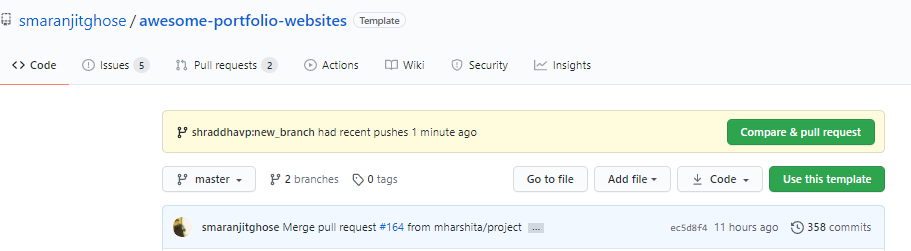
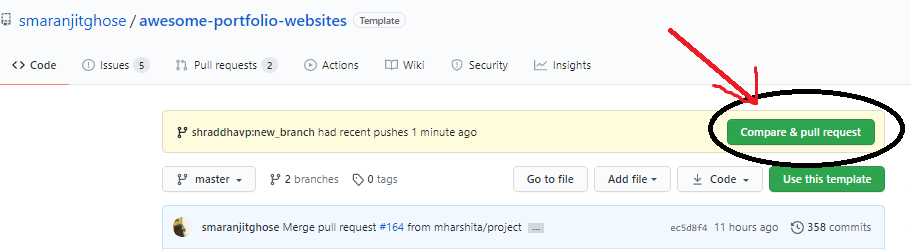
Updated Contribution Guidelines

Changed region(s): [[0.7684, 0.3068, 1.0, 0.6693], [0.7069, 0.1116, 0.7684, 0.2231], [0.7684, 0.2231, 0.7991, 0.3068]]

diff --git a/CONTRIBUTING.md b/CONTRIBUTING.md
@@ -1,4 +1,5 @@
-<h1 align="center"><b>Guidelines for Contribution</b></h1> 
+# Contribution Guidelines [![contributions welcome](https://img.shields.io/badge/contributions-welcome-brightgreen.svg?style=flat)](https://github.com/smaranjitghose/awesome-portfolio-websites/issues) 🤝🏽🍀:
+
 
 <p align="center"><img src="./readme_assets/Contribute.png" width=600></p>
 
@@ -10,20 +11,34 @@ We want to make contributing to this project as easy and as transparent as possi
 
 - Proposing new features :bulb:
 
-If you wish to contribute to this project, please raise an issue and wait for the project maintainers to approve it or give feedback
+If you wish to contribute to this project, please raise an issue and wait for the project maintainers to approve it or give feedback before making a change.
 
-<h2 align="center"><b>How to make a Pull Request? :point_down:</b></h2>
+This documentation contains a set of guidelines to help you during the contribution process. We are happy to welcome all the contributions from anyone willing to improve/add new scripts to this project. 
 
-<p align="center"><img src="https://camo.githubusercontent.com/2c885464740a6c05b127ecb7c3ebb9e5cc67ba1c/68747470733a2f2f6d656469612e67697068792e636f6d2f6d656469612f4a717a616442746f6e4a56723075384c55672f67697068792e676966" width=500></p>
+## Code of Conduct
+
+Make sure to read it here: [CODE_OF_CONDUCT.md](CODE_OF_CONDUCT.md)
+
+
+## Preliminaries
+
+- Download and install the latest stable version of [Git](https://git-scm.com/downloads) 📥 for version control
+- Create a [Github](https://github.com/join) Account 📇
+- Download and install latest stable version of [VS Code](https://code.visualstudio.com/download)
+
+##   A. Setting up the Project
 
 **1.**  Fork [this](https://github.com/smaranjitghose/awesome-portfolio-websites) repository.
+
+<p align="center"><img src="readme_assets\Fork_Repo.gif" width="500" height="200" /></p>
+
 
 **2.**  Clone your forked copy of the project.
 
 ```
 git clone --depth 1 https://github.com/<your_user_name>/awesome-portfolio-websites.git
 ```
-<img src="./readme_assets/CloneRepo.png" width="500">
+<p align="center"><img width=35% src="readme_assets\clone_repo.gif" width="500" height="200" /></p>
 
 **3.** Navigate to the project directory :file_folder: .
 
@@ -49,47 +64,129 @@ git remote -v
 git pull upstream master
 ```
 
-**7.** Create a new branch.
+- Comment on any existing [issue(s)](https://github.com/smaranjitghose/awesome-portfolio-websites/issues) raised by **project maintainers**. Otherwise raise a [new issue](https://github.com/smaranjitghose/awesome-portfolio-websites/issues/new).
+
+> ### Guidelines for raising a new issue:
+>
+> - Each issue should have an appropriate and short title like "Bug in Experience Page"
+>
+> - Whenever a participant raises an issue, by default it would be assigned to that participant due to obvious reasons. 
+>
+> - Be specific about your intended changes/suggestions
+>
+> - Refrain from using phrases like "Hi, I am ..", "Please assign me this issue", "Thank You..", etc. We are only interested in technical parts
+>
+> - Attach a screenshot/clip if applicable
+>
+> - Please be patient enough. The project maintainers/mentors would review it as per their schedule. Refrain from putting up comments like "Please check this" ,"Please review this PR" etc.
+>
+>-  An issue would be assigned to a participant for a minimum of 1 day and a maximum of 3 days. If the tenure of a particular participant is not over please do not spam the issue thread by writing, " I am interested" etc. You are welcome to do so if the participant has not met the requirements with around 12 hours remaining for their deadline.
+>
+> - Feel free to suggest your opinions on the already raised issues.
+>
+> - All participants are welcomed to suggest new features/bug fixes/improvements and raise new issues for those. However, the assignment would be done once approved by either of the project maintainers or the mentors.
+>
+> - Do not blindly comment on issues raised by other participant(s). Unless a minimum of 48 hours has passed since their assignment, the issue would not be re-assigned(excluding certain cases). The issue raised by a participant will always to be assigned to him/her by default. Do not spam "Interested", "Please assign me" in others issues.
+>
+> - Always keep a note of the deadline.
+
+##  B. Contributing to the Project
+
+- Once the project maintainer(s)/mentor(s) have reviewed the issue/assigned you the issue. Start working on the changes.
+
+**1.** Create a new branch (DO NOT name it MAIN or MASTER or anything random).
 
 ```
 git checkout -b <your_branch_name>
 ```
 
-**8.** Perfom your desired changes to the code base.
+**2.** Perfom your desired changes to the code base.
+- Make sure that you do not change any code unrelated to the task that you have been assigned
+
+- Ensure that your changes apply to all screensizes
+
+- Comment any new code addition(s)
+
+- Do not mess up the directory structure
+
+- Preview your changes and test them properly before proceding ahead
 
 <p align="center"><img width=35% src="https://media2.giphy.com/media/L1R1tvI9svkIWwpVYr/giphy.gif?cid=ecf05e47pzi2rpig0vc8pjusra8hiai1b91zgiywvbubu9vu&rid=giphy.gif"></p>
 
-**9.** Track your changes:heavy_check_mark: .
+- Make a small clip or take screenshots before and after making changes.
+
+
+**3.** Track your changes:heavy_check_mark: 
 
 ```
 git add . 
 ```
 
-**10.** Commit your changes .
+**4.** Commit your changes .
 
 ```
-git commit -m "Relevant message"
+git commit -m "Relevant message"  (usually title of the pull request)
 ```
+- **Make sure to condense your changes into a single commit**.
 
-**11.** Push the committed changes in your feature branch to your remote repo.
+**5.** Push the committed changes in your feature branch to your remote repo.
 
 ```
 git push -u origin <your_branch_name>
 ```
 
-**12.** To create a pull request, click on `compare and pull requests`. Please ensure you compare your feature branch to the desired branch of the repo you are suppose to make a PR to.
+**6.** To create a pull request, click on `compare and pull requests`. Please ensure you compare your feature branch to the desired branch of the repo you are suppose to make a PR to.
 
 <img src="./readme_assets/ComparePR.png" width=600>
 
-**13.** Then add an appropriate title and description to your pull request that explains your changes and efforts done.
+**7.** Then add an appropriate title and description to your pull request that explains your changes and efforts done.
 
 
-**14.** Click on `Create Pull Request`.
+**8.** Click on `Create Pull Request`.
 
 <img src="./readme_assets/CreatePR.png" width=600>
 
+> ### Guidelines for raising a pull request:
+>
+> - Each pull request should have an appropriate and short title like "Fixed Bug in Experience Page"
+>
+> - In case of multiple commits, please perform a rebase and make a squash commit before giving the pull request.
+>
+> - Pull Requests without a description would often not be reviewed. Make sure you describe your intended changes in the description section of the pull request. (Use bullet points and phrases)
+>
+> - Make sure to refer the respective issue in the respective PR using phrases like `Resolves #issue_number` or `Closes #issue_number`.  Here's an example to raise a PR:
+```
+ Fixes #640
 
-**15** Voila :exclamation: You have made a PR to the awesome-developer-portfolio project :boom: . Sit back patiently and relax while the project maintainers review your PR. Please understand at times the time can vary from a few hours to a few days
+# Work Done:
+
+- Fixed Responsiveness bug in the MOOC Section of the Education Page
+- Made the Favicon more optimized
+- ...
+- ...
+- ...
+
+# Relevant Screenshots/Gifs
+```
+
+> - Refrain from using phrases like "Hi, I am ..", "Please merge me this PR", "Thank You..", etc. We are only interested in technical parts.
+>
+> - Attach a screenshot/clip of the change(s).
+>
+> - Please be patient enough. The project maintainers/mentors would review it as per their schedule. Please do not start putting comments like "Please check this" etc.
+>
+> - Not every PR would be merged directly. In majority of the scenarios, we would be offering some additional suggestions which are to be incorporated in the same PR with a squash commit.
+>
+> - Look out for possible merge conflicts. Please add comments required, this makes your code readable.
+>
+>- Make sensible variable names. For example, card1 is quite ambiguous but education_card implies what that variable is declared for.
+>
+> - Although we support feedback from everyone in all phases of development, it is highly advised not to put any negative comments in other participant's pull requests.
+>
+> - Always keep a note of the deadline.
+
+
+**9.** Voila :exclamation: You have made a PR to the awesome-developer-portfolio project :boom: . Sit back patiently and relax while the project maintainers review your PR. Please understand at times the time can vary from a few hours to a few days.
 
 <p align="center"><img src="https://media.giphy.com/media/5mCQOcUfywmyI/giphy.gif" width=35%></p>
 
